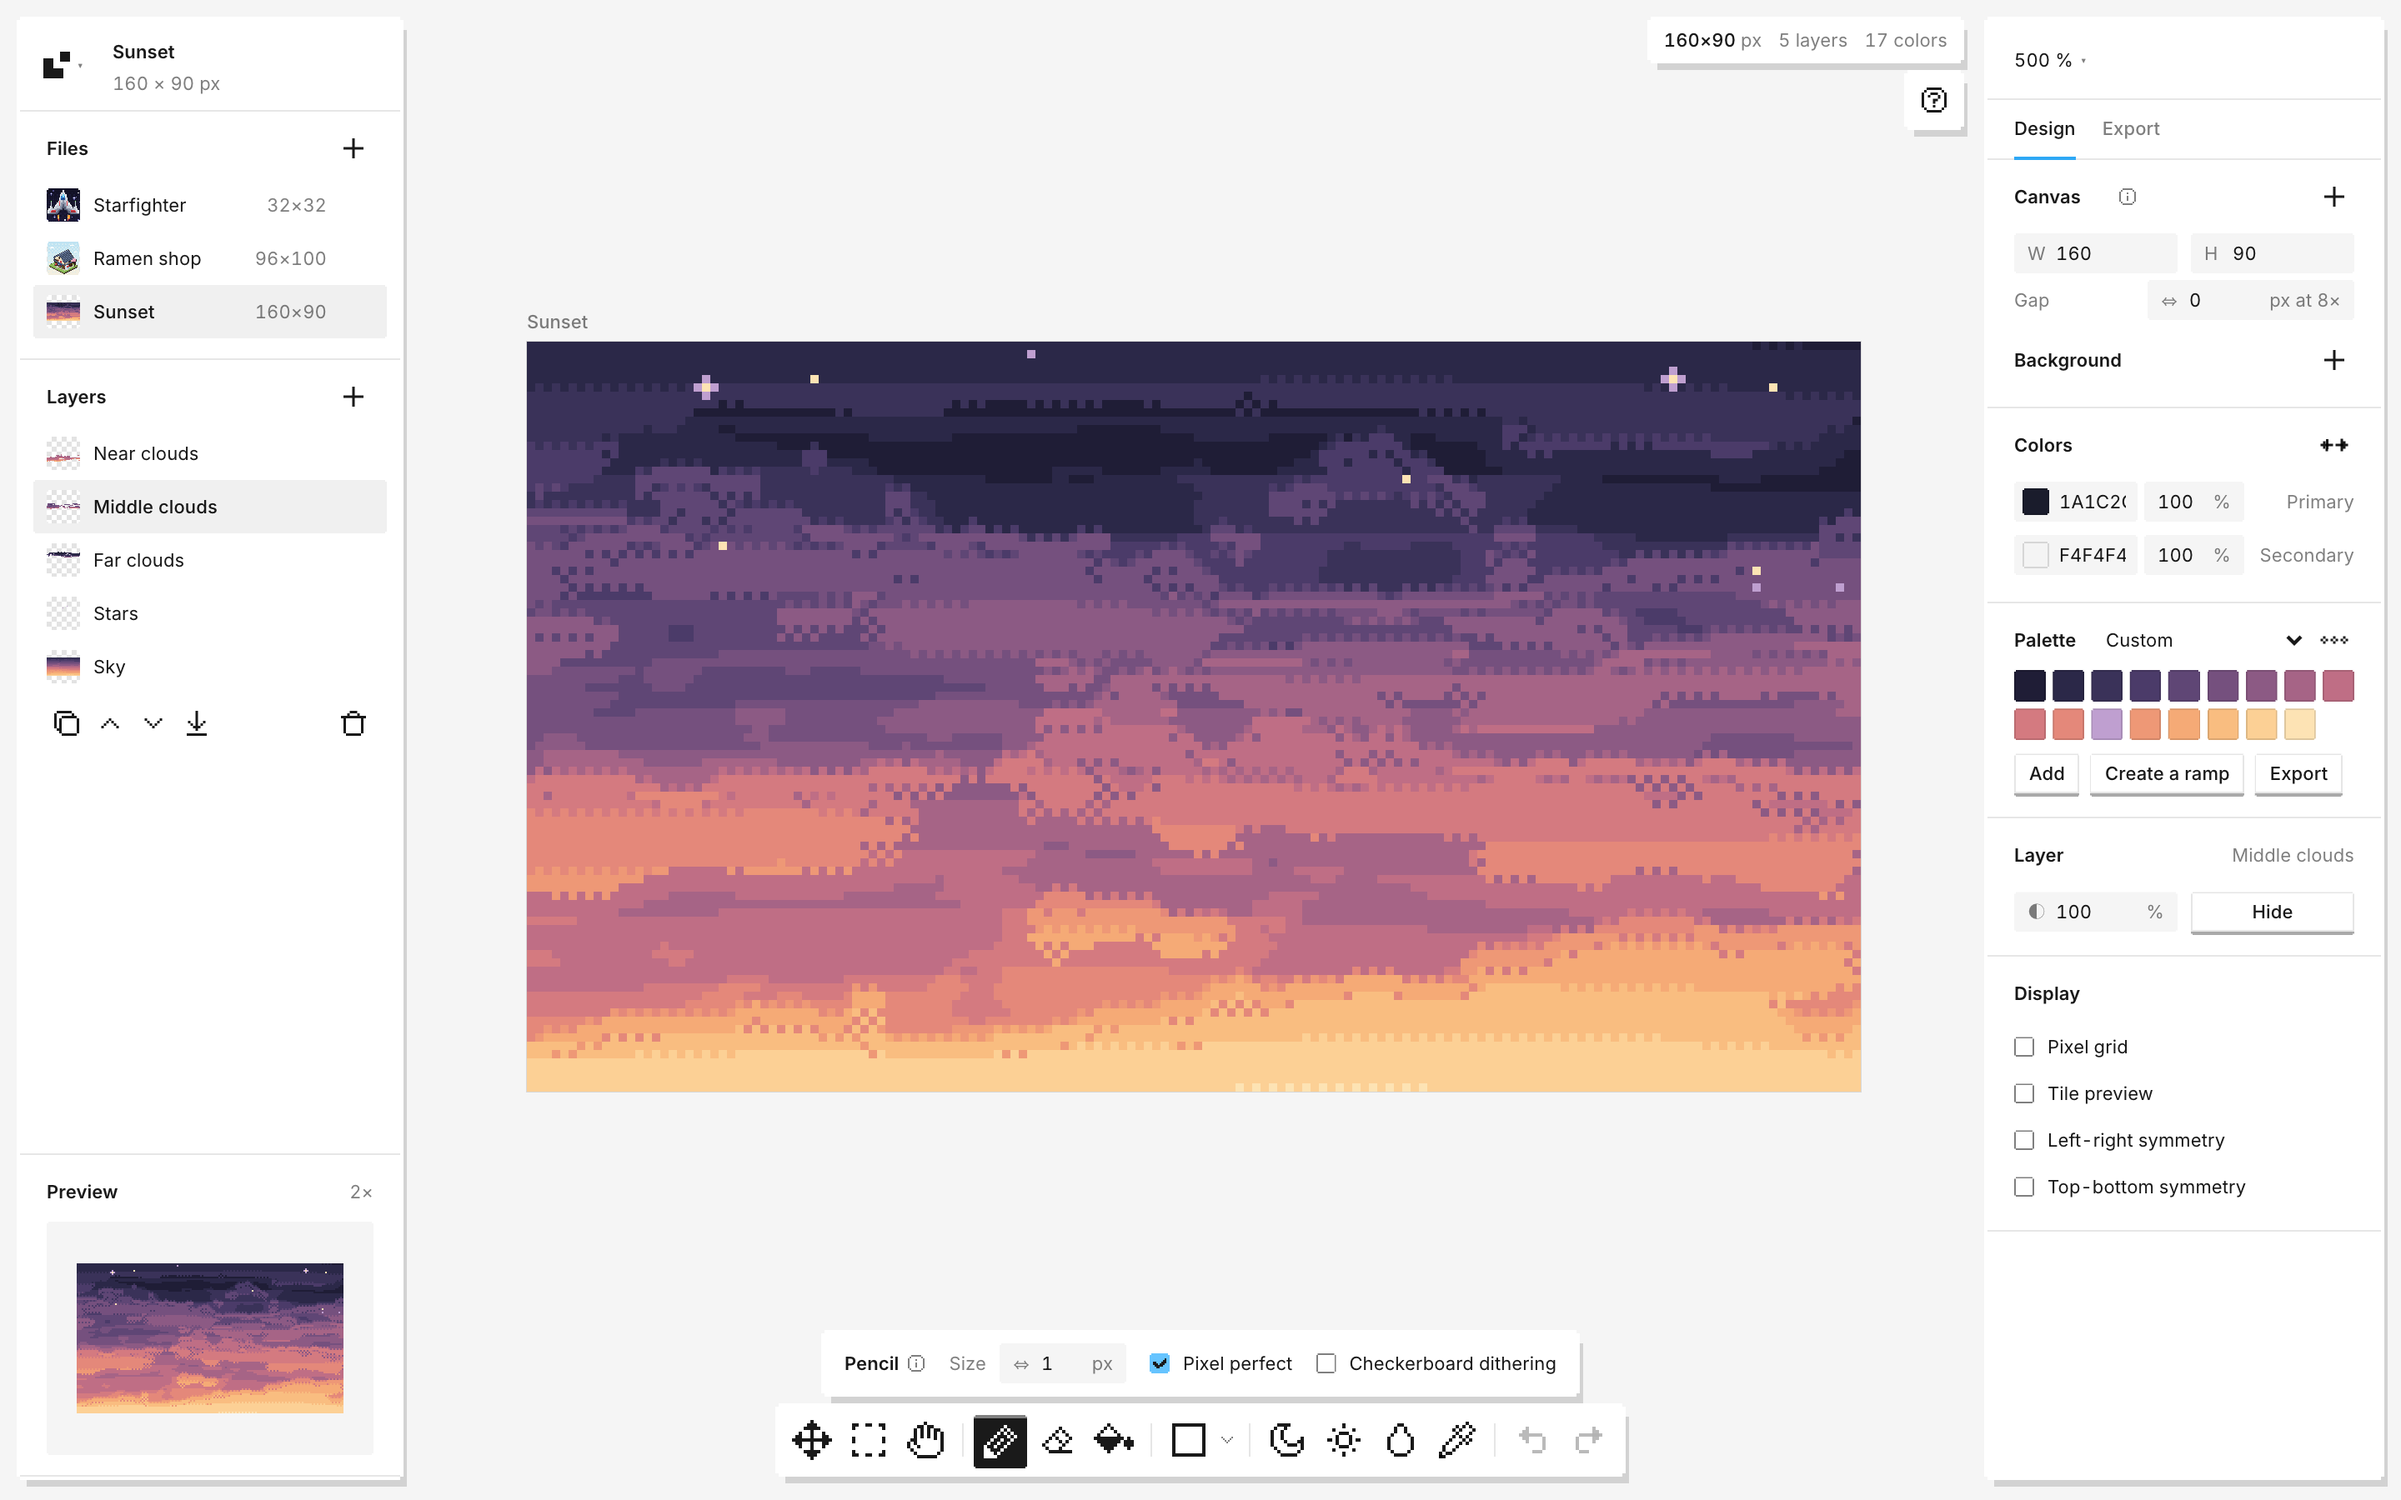
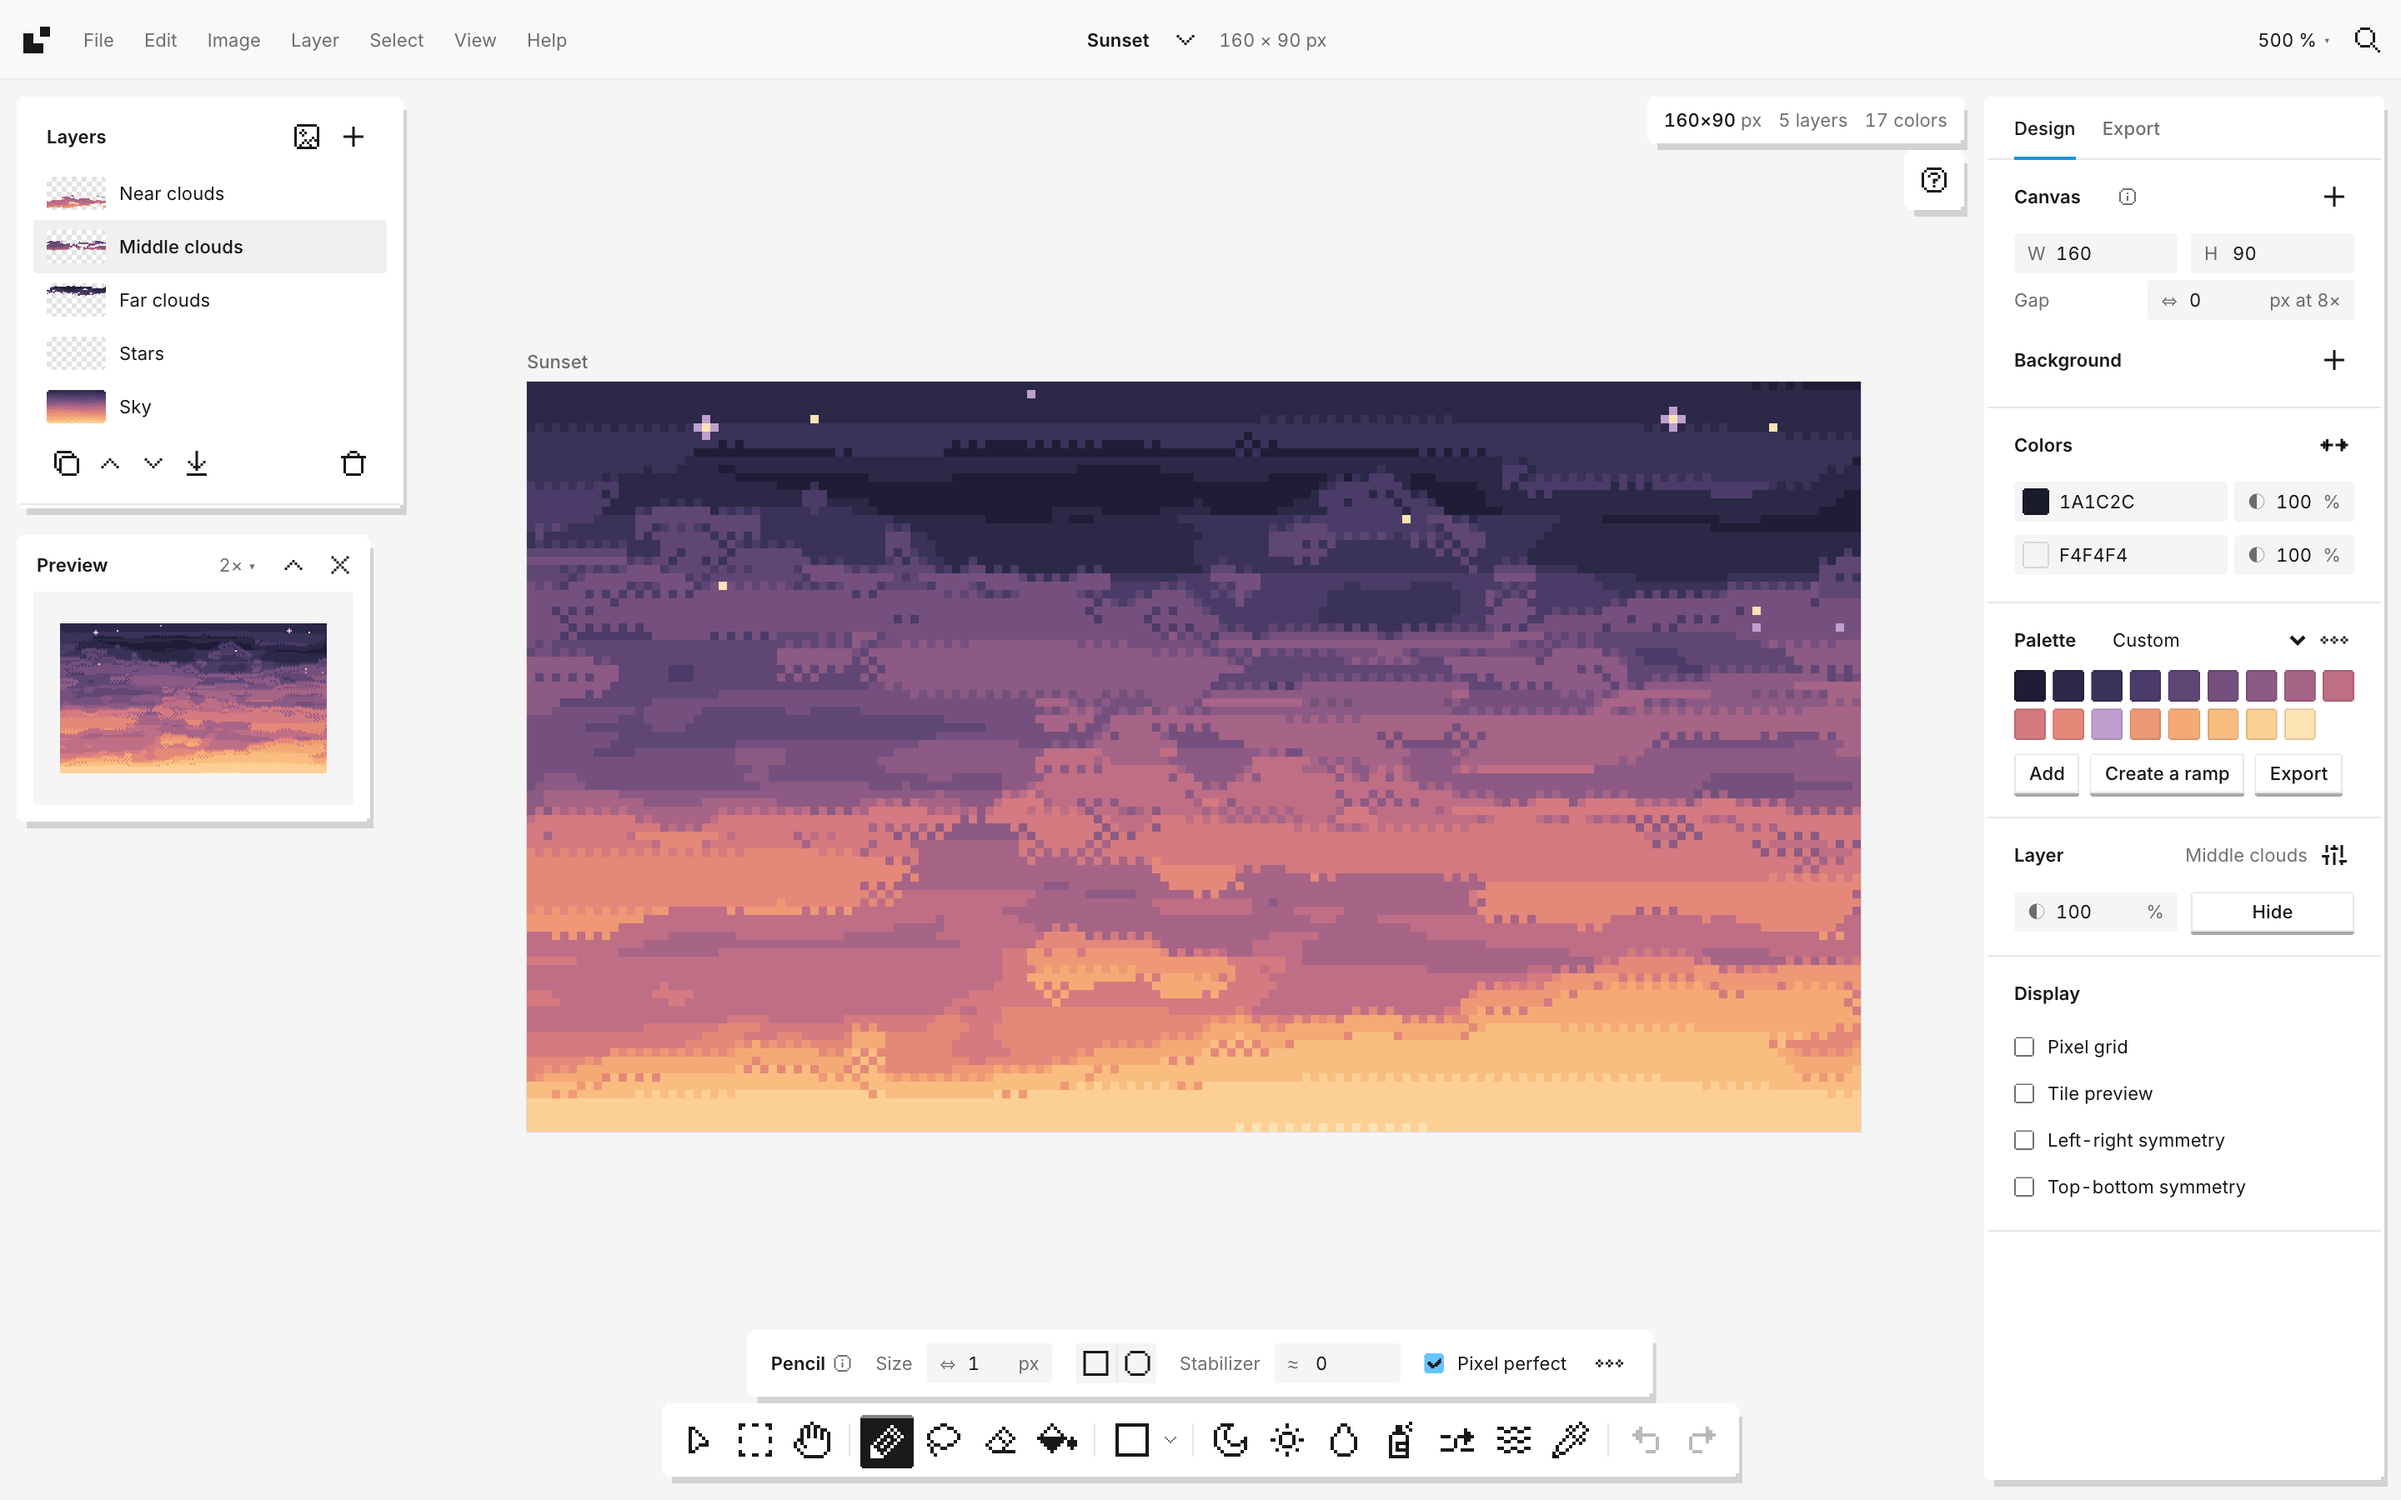
The home page shows the new editor (#197)
* Feature cards for what's new in the editor

* New screenshots of the editor on the home page

* Add the PR number to the changelog

diff --git a/CHANGELOG.md b/CHANGELOG.md
@@ -54,6 +54,7 @@ Notable changes to Baipix, newest first. The format follows [Keep a Changelog](h
 
 ### Website
 
+- New screenshots of the editor on the home page, with the menu bar and the floating preview, and feature cards for what's new: the command palette, Remap, the Lasso fill, Spray and custom brushes, Liquify and Jumble, seamless tiles, the reference image. (#197)
 - The design system shows the tabs. (#184)
 - The design system shows the color row (swatch, hex and opacity). (#181)
 - The design system shows the segmented icon buttons (like the brush tip choice). (#179)
